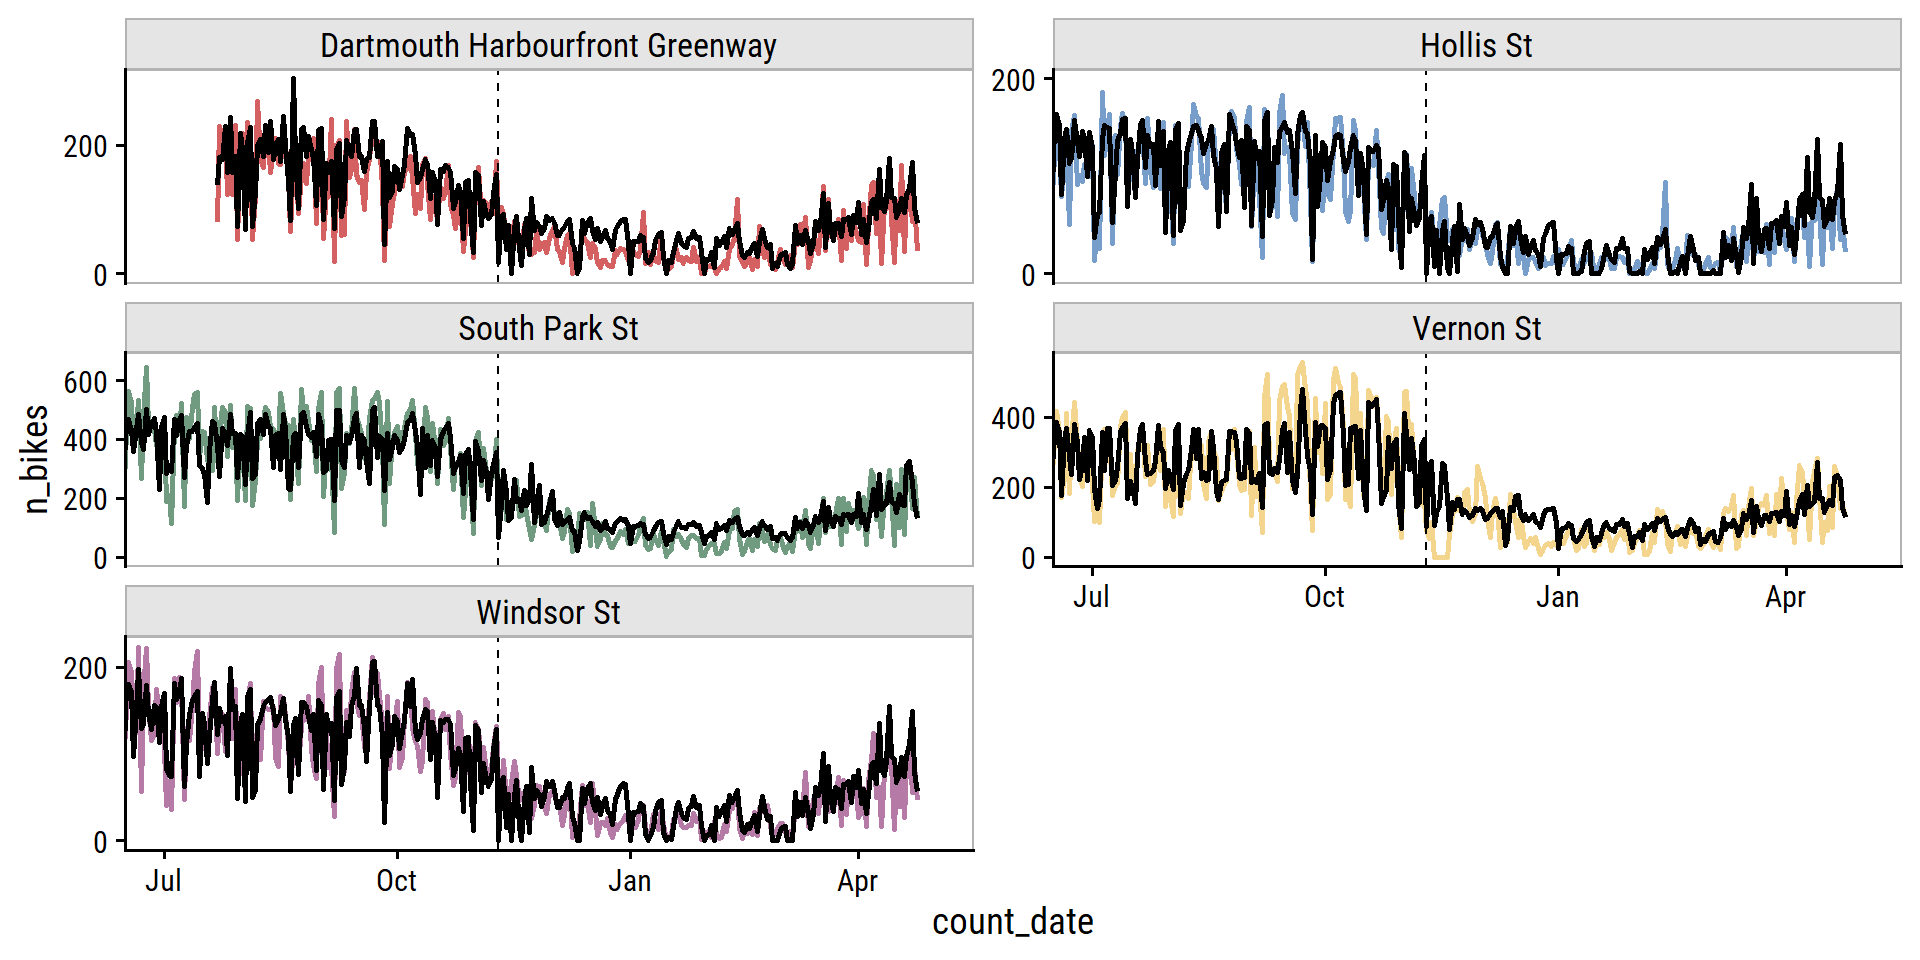
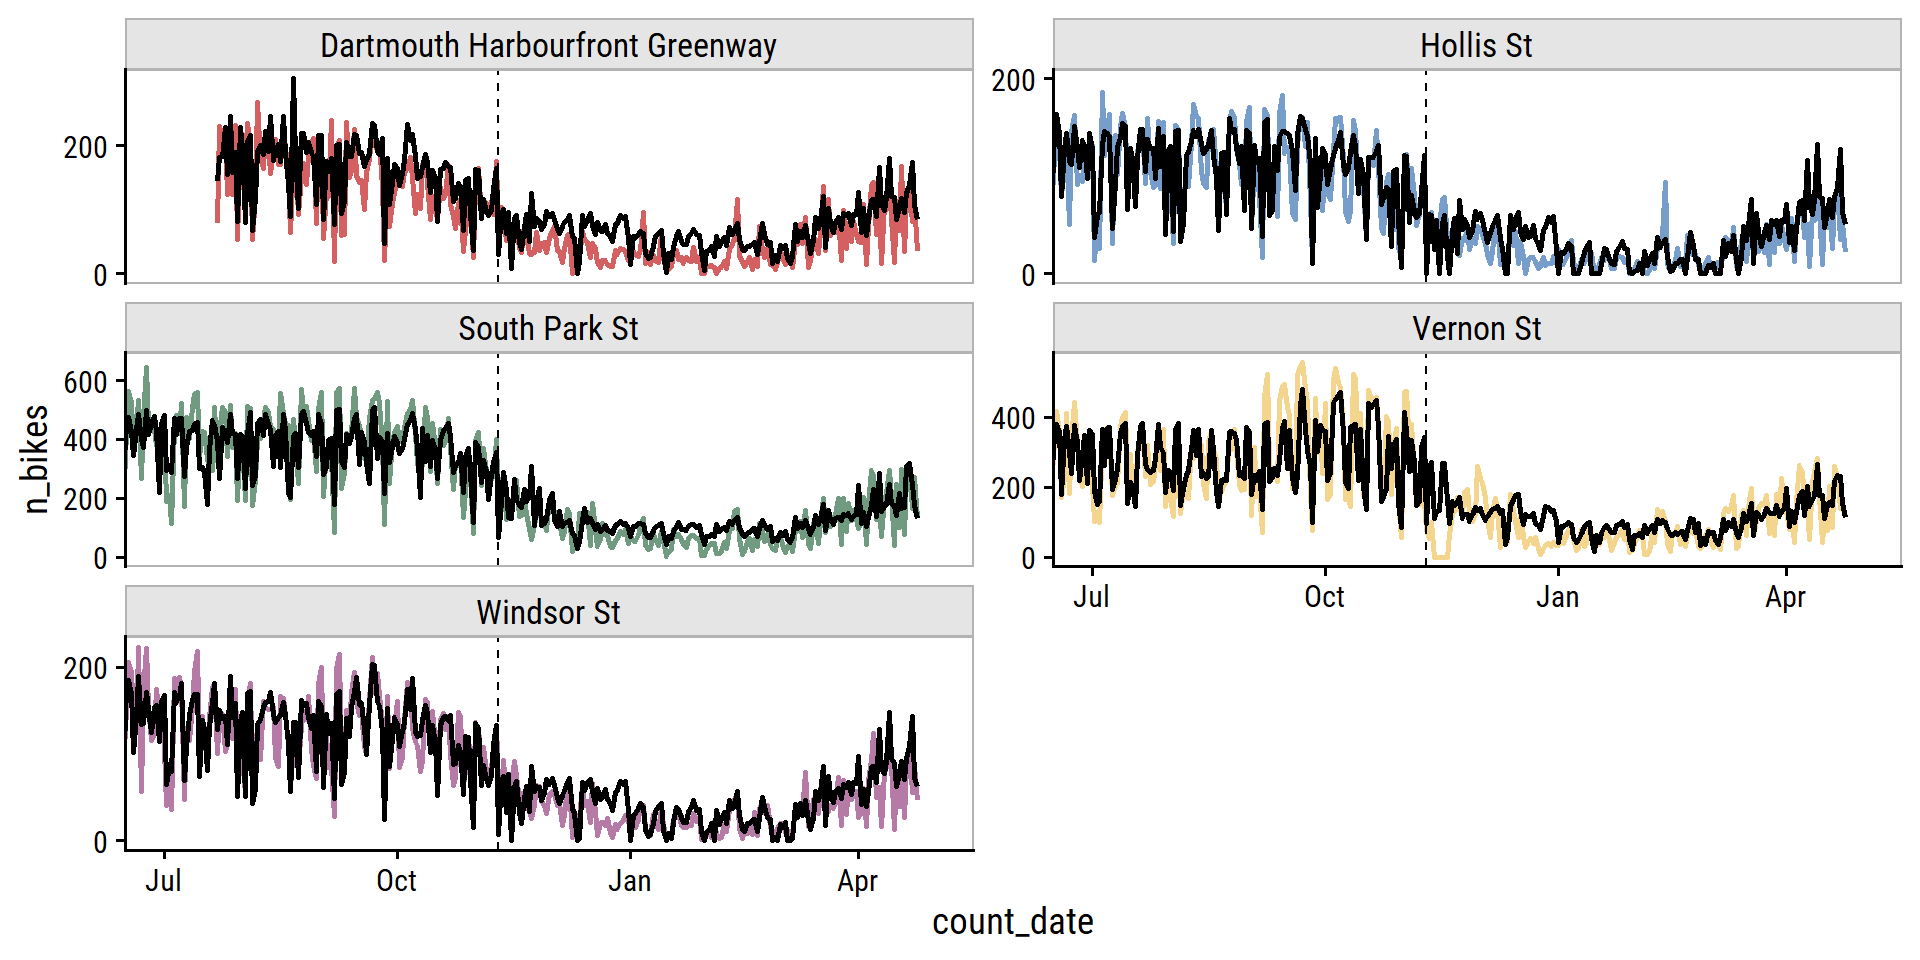
Trying to get slide numbers working

diff --git a/slides/hfx-bike-ridership.html b/slides/hfx-bike-ridership.html
@@ -427,7 +427,7 @@
 <p><img data-src="images/permanent-zelt.png"></p>
 </div><div class="column fragment" style="width:50%;">
 <ul>
-<li>Starting in 2020, the city made bike counter data available via their open data platform</li>
+<li>A few years ago, the city made bike counter data available via their open data platform</li>
 </ul>
 <p><img data-src="images/halifax-open-data-bikes.PNG"></p>
 </div>
@@ -2401,7 +2401,7 @@ NA
 <section id="metrics" class="slide level2">
 <h2>Metrics</h2>
 <ul>
-<li>Mean absolute squared error<sup>1</sup></li>
+<li>Mean absolute scaled error<sup>1</sup></li>
 </ul>
 <p><span class="math display">\[
 q_t = \frac{y_t - \hat{y}_t}{\frac{1}{n-1} \sum_{i=2}^n |y_i - y_{i-1} |} = \frac{\text{model error}}{\text{mean naive forecast error}}
@@ -3087,7 +3087,7 @@ estimate
 rmse
 </td>
 <td style="text-align:right;">
-42.6400
+42.8100
 </td>
 </tr>
 <tr>
@@ -3095,7 +3095,7 @@ rmse
 mase
 </td>
 <td style="text-align:right;">
-0.7039
+0.7117
 </td>
 </tr>
 </tbody>
@@ -3220,7 +3220,7 @@ n_bikes
 0
 </td>
 <td style="text-align:right;">
-89.4
+109.9
 </td>
 </tr>
 <tr>
@@ -3231,7 +3231,7 @@ n_bikes
 0
 </td>
 <td style="text-align:right;">
-125.7
+131.4
 </td>
 </tr>
 <tr>
@@ -3242,7 +3242,7 @@ n_bikes
 0
 </td>
 <td style="text-align:right;">
-141.8
+134.0
 </td>
 </tr>
 <tr>
@@ -3253,7 +3253,7 @@ n_bikes
 0
 </td>
 <td style="text-align:right;">
-268.6
+268.7
 </td>
 </tr>
 <tr>
@@ -3264,7 +3264,7 @@ n_bikes
 0
 </td>
 <td style="text-align:right;">
-262.1
+267.2
 </td>
 </tr>
 <tr>
@@ -3275,7 +3275,7 @@ n_bikes
 0
 </td>
 <td style="text-align:right;">
-166.4
+161.1
 </td>
 </tr>
 </tbody>
@@ -3341,8 +3341,9 @@ n_bikes
 <span id="cb73-3"><a href="#cb73-3"></a>  <span class="fu">geom_vline</span>(<span class="at">xintercept =</span> <span class="fu">as.Date</span>(<span class="st">"2021-11-23"</span>), <span class="at">lty =</span> <span class="dv">2</span>, <span class="at">size =</span> <span class="dv">1</span>) <span class="sc">+</span></span>
 <span id="cb73-4"><a href="#cb73-4"></a>  <span class="fu">expand_limits</span>(<span class="at">y =</span> <span class="fu">c</span>(<span class="dv">0</span>, <span class="dv">200</span>)) <span class="sc">+</span></span>
 <span id="cb73-5"><a href="#cb73-5"></a>  <span class="fu">theme_td</span>(<span class="at">base_size =</span> <span class="dv">25</span>) <span class="sc">+</span></span>
-<span id="cb73-6"><a href="#cb73-6"></a>  <span class="fu">facet_wrap</span>(<span class="sc">~</span> site_name, <span class="at">ncol =</span> <span class="dv">2</span>) <span class="sc">+</span></span>
-<span id="cb73-7"><a href="#cb73-7"></a>  <span class="fu">theme</span>(<span class="at">legend.position =</span> <span class="st">"none"</span>)</span></code><button title="Copy to Clipboard" class="code-copy-button"><i class="bi"></i></button></pre></div>
+<span id="cb73-6"><a href="#cb73-6"></a>  <span class="fu">facet_wrap</span>(<span class="sc">~</span> site_name, <span class="at">ncol =</span> <span class="dv">2</span>, <span class="at">scales =</span> <span class="st">"free_y"</span>) <span class="sc">+</span></span>
+<span id="cb73-7"><a href="#cb73-7"></a>  <span class="fu">theme</span>(<span class="at">legend.position =</span> <span class="st">"none"</span>) <span class="sc">+</span></span>
+<span id="cb73-8"><a href="#cb73-8"></a>  <span class="fu">add_facet_borders</span>()</span></code><button title="Copy to Clipboard" class="code-copy-button"><i class="bi"></i></button></pre></div>
 </details>
 <div class="cell-output-display">
 <div class="quarto-figure quarto-figure-center">
@@ -3468,10 +3469,10 @@ Dartmouth Harbourfront Greenway
 30
 </td>
 <td style="text-align:right;">
-116.4
+125.3
 </td>
 <td style="text-align:right;">
-42.4
+50.3
 </td>
 </tr>
 <tr>
@@ -3482,10 +3483,10 @@ Hollis St
 19
 </td>
 <td style="text-align:right;">
-71.6
+75.6
 </td>
 <td style="text-align:right;">
-3.6
+10.2
 </td>
 </tr>
 <tr>
@@ -3496,10 +3497,10 @@ South Park St
 59
 </td>
 <td style="text-align:right;">
-314.9
+307.4
 </td>
 <td style="text-align:right;">
-192.0
+177.8
 </td>
 </tr>
 <tr>
@@ -3510,10 +3511,10 @@ Vernon St
 133
 </td>
 <td style="text-align:right;">
-164.3
+170.1
 </td>
 <td style="text-align:right;">
-85.7
+92.9
 </td>
 </tr>
 <tr>
@@ -3524,10 +3525,10 @@ Windsor St
 26
 </td>
 <td style="text-align:right;">
-84.4
+85.5
 </td>
 <td style="text-align:right;">
-13.6
+16.6
 </td>
 </tr>
 </tbody>
